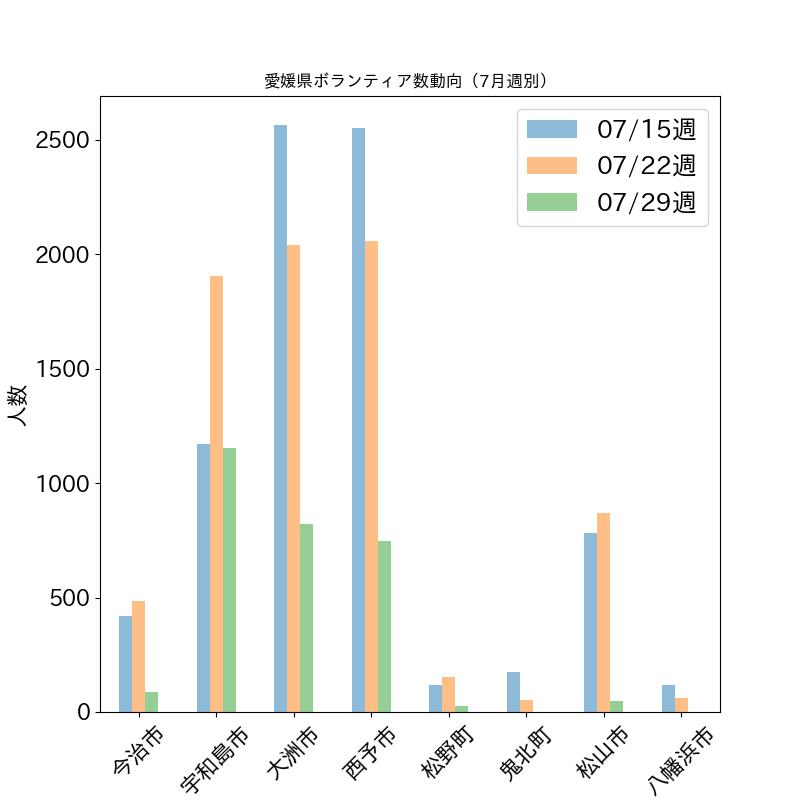
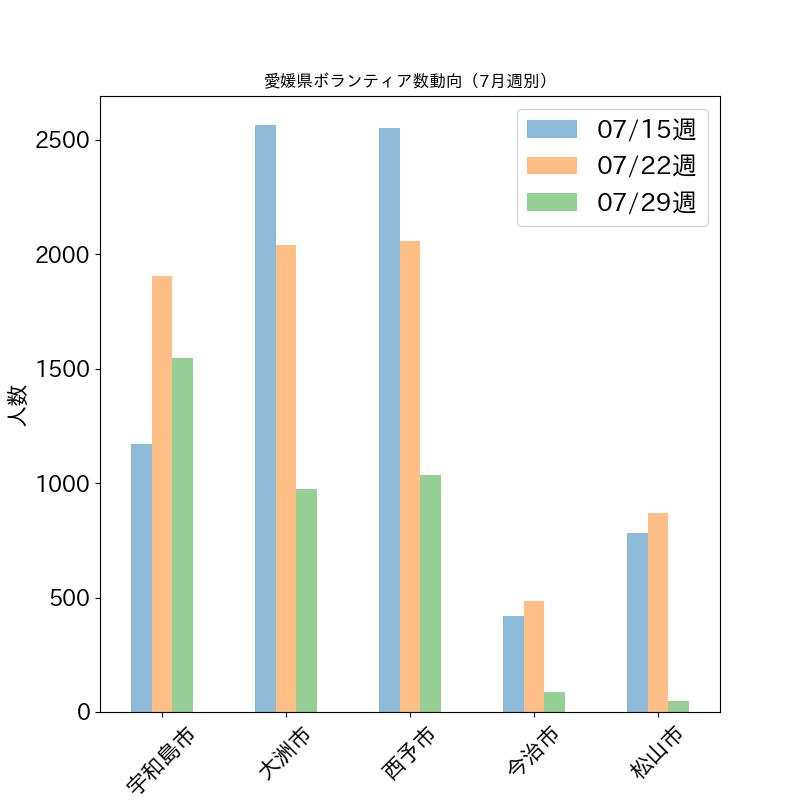
7/28分

Changed region(s): [[0.125, 0.1562, 0.4062, 1.0], [0.4375, 0.1562, 0.5938, 0.9688], [0.625, 0.625, 0.9062, 1.0]]

diff --git a/_pages/volunteer_aggregation.md b/_pages/volunteer_aggregation.md
@@ -1,15 +1,17 @@
 ---
-title: 【07/27版 愛媛県ボランティア数動向】
+title: 【07/28版 愛媛県ボランティア数動向】
 description: 松山市社協、八幡浜市社協、愛媛災害支援センターが公開しているデータを元に、ボランティア数のグラフを作成・公開しています。
 permalink: /volunteer/aggregation/
 date: 2018-07-18 05:59:06 +0900
-last_modified_at: 2018-07-27 22:36:19 +0900
+last_modified_at: 2018-07-28 21:07:36 +0900
 sidebar:
   nav: volunteer_menu
 
 ---
 
-## 【07/27から過去一週間分データ更新】
+## 【07/28から過去一週間分データ更新】
+
+本日より災害VCが開所してる今治、宇和島、大洲、西予と、まだニーズが残っている（と思われる）松山のみの表示とします。
 
 各社協、ボランティアセンターが公開している情報を元に、愛媛県内のボランティア数の一覧とグラフを公開しています。データ数が増えてきたので過去８日以内の表示にしています。全データは[こちら](https://docs.google.com/spreadsheets/d/1h-GFHoNa55P96wu_HNbPk899eN4HZcnu1T9q4eag8Uc/edit#gid=0)にあります。 [^1]
 
@@ -17,18 +19,15 @@ sidebar:
 
 エリア | 前日比 | 前週同日比
 ---------|----------|---------
- 宇和島市 | :arrow_upper_right:11 | :arrow_upper_right:124
- 大洲市  | :arrow_upper_right:4 | :arrow_lower_right:-33
- 西予市  | :arrow_lower_right:-19 | :arrow_lower_right:-88
+ 宇和島市 | :arrow_upper_right:139 | :arrow_lower_right:-79
+ 大洲市  | :arrow_upper_right:12 | :arrow_lower_right:-254
+ 西予市  | :arrow_upper_right:201 | :arrow_lower_right:-15
 
-- 松山は7/27 22:30時点で不明
-- 宇和島、大洲は微増
-- 西予市は引き続き減少傾向
+- 宇和島、大洲、西予ともに、ほぼ目標数のボランティアの皆さんが集まったようです。
+- 明日(7/29)は台風のためすべてのVCはお休みです。
+- 月曜日(7/30)も西予市は前日18:00までに実施かどうかを決定、他のVCはお休みとなります。
+- 東からのルートの台風は被災地の二次災害だけでなくその他の地域でも警戒が必要です。
 
-日曜日は台風の影響でボランティア作業がストップする可能性が高いです。
-被災地で何も起きないことを願うばかりです。
-
-暑い日が続きますが、ボランティア時に気をつける[熱中症対策のイラストリーフレット](https://cheerup-ehime.github.io/volunteer/heatstroke-illustrated/)を作成しましたので、是非ご活用ください。（https://cheerup-ehime.github.io/volunteer/heatstroke-illustrated/）
 
 **熱射病対応チャートは要チェックです！！**
 
@@ -37,26 +36,26 @@ sidebar:
 
 [^1]: 八幡浜市の7/10,17の情報は公開されていません。
 
-| 日付   |   今治市 |   宇和島市 |   大洲市 |   西予市 |   松野町 |   鬼北町 |   松山市 |   八幡浜市 |
-|:-------|---------:|-----------:|---------:|---------:|---------:|---------:|---------:|-----------:|
-| 07/20  |       44 |        128 |      175 |      177 |       10 |        0 |      102 |          5 |
-| 07/21  |      105 |        470 |      408 |      305 |       21 |        0 |      115 |          0 |
-| 07/22  |      101 |        411 |      365 |      330 |       71 |        0 |      141 |          0 |
-| 07/23  |       32 |        156 |      156 |      138 |        2 |        0 |        0 |          0 |
-| 07/24  |        2 |        273 |      217 |      174 |        3 |        0 |       27 |          0 |
-| 07/25  |       10 |        233 |      169 |      237 |       21 |        0 |       19 |          0 |
-| 07/26  |       20 |        241 |      138 |      108 |        0 |        0 |        0 |          0 |
-| 07/27  |       23 |        252 |      142 |       89 |        0 |        0 |        0 |          0 |
+| 日付   |   宇和島市 |   大洲市 |   西予市 |   今治市 |   松山市 |
+|:-------|-----------:|---------:|---------:|---------:|---------:|
+| 07/21  |        470 |      408 |      305 |      105 |      115 |
+| 07/22  |        411 |      365 |      330 |      101 |      141 |
+| 07/23  |        156 |      156 |      138 |       32 |        0 |
+| 07/24  |        273 |      217 |      174 |        2 |       27 |
+| 07/25  |        233 |      169 |      237 |       10 |       19 |
+| 07/26  |        241 |      138 |      108 |       20 |        0 |
+| 07/27  |        252 |      142 |       89 |       23 |        0 |
+| 07/28  |        391 |      154 |      290 |        0 |        0 |
 
 ## 【週毎のボランティア数動向】
 
 ![愛媛県内ボランティア数（週次）](/assets/images/volunteer_count_week.png)
 
-| 日付                |   今治市 |   宇和島市 |   大洲市 |   西予市 |   松野町 |   鬼北町 |   松山市 |   八幡浜市 |
-|:--------------------|---------:|-----------:|---------:|---------:|---------:|---------:|---------:|-----------:|
-| 2018-07-15 00:00:00 |      419 |       1172 |     2562 |     2552 |      117 |      174 |      781 |        116 |
-| 2018-07-22 00:00:00 |      484 |       1902 |     2040 |     2056 |      155 |       53 |      867 |         62 |
-| 2018-07-29 00:00:00 |       87 |       1155 |      822 |      746 |       26 |        0 |       46 |          0 |
+| 日付                |   宇和島市 |   大洲市 |   西予市 |   今治市 |   松山市 |
+|:--------------------|-----------:|---------:|---------:|---------:|---------:|
+| 2018-07-15 00:00:00 |       1172 |     2562 |     2552 |      419 |      781 |
+| 2018-07-22 00:00:00 |       1902 |     2040 |     2056 |      484 |      867 |
+| 2018-07-29 00:00:00 |       1546 |      976 |     1036 |       87 |       46 |
 
 ### 元データ
 
